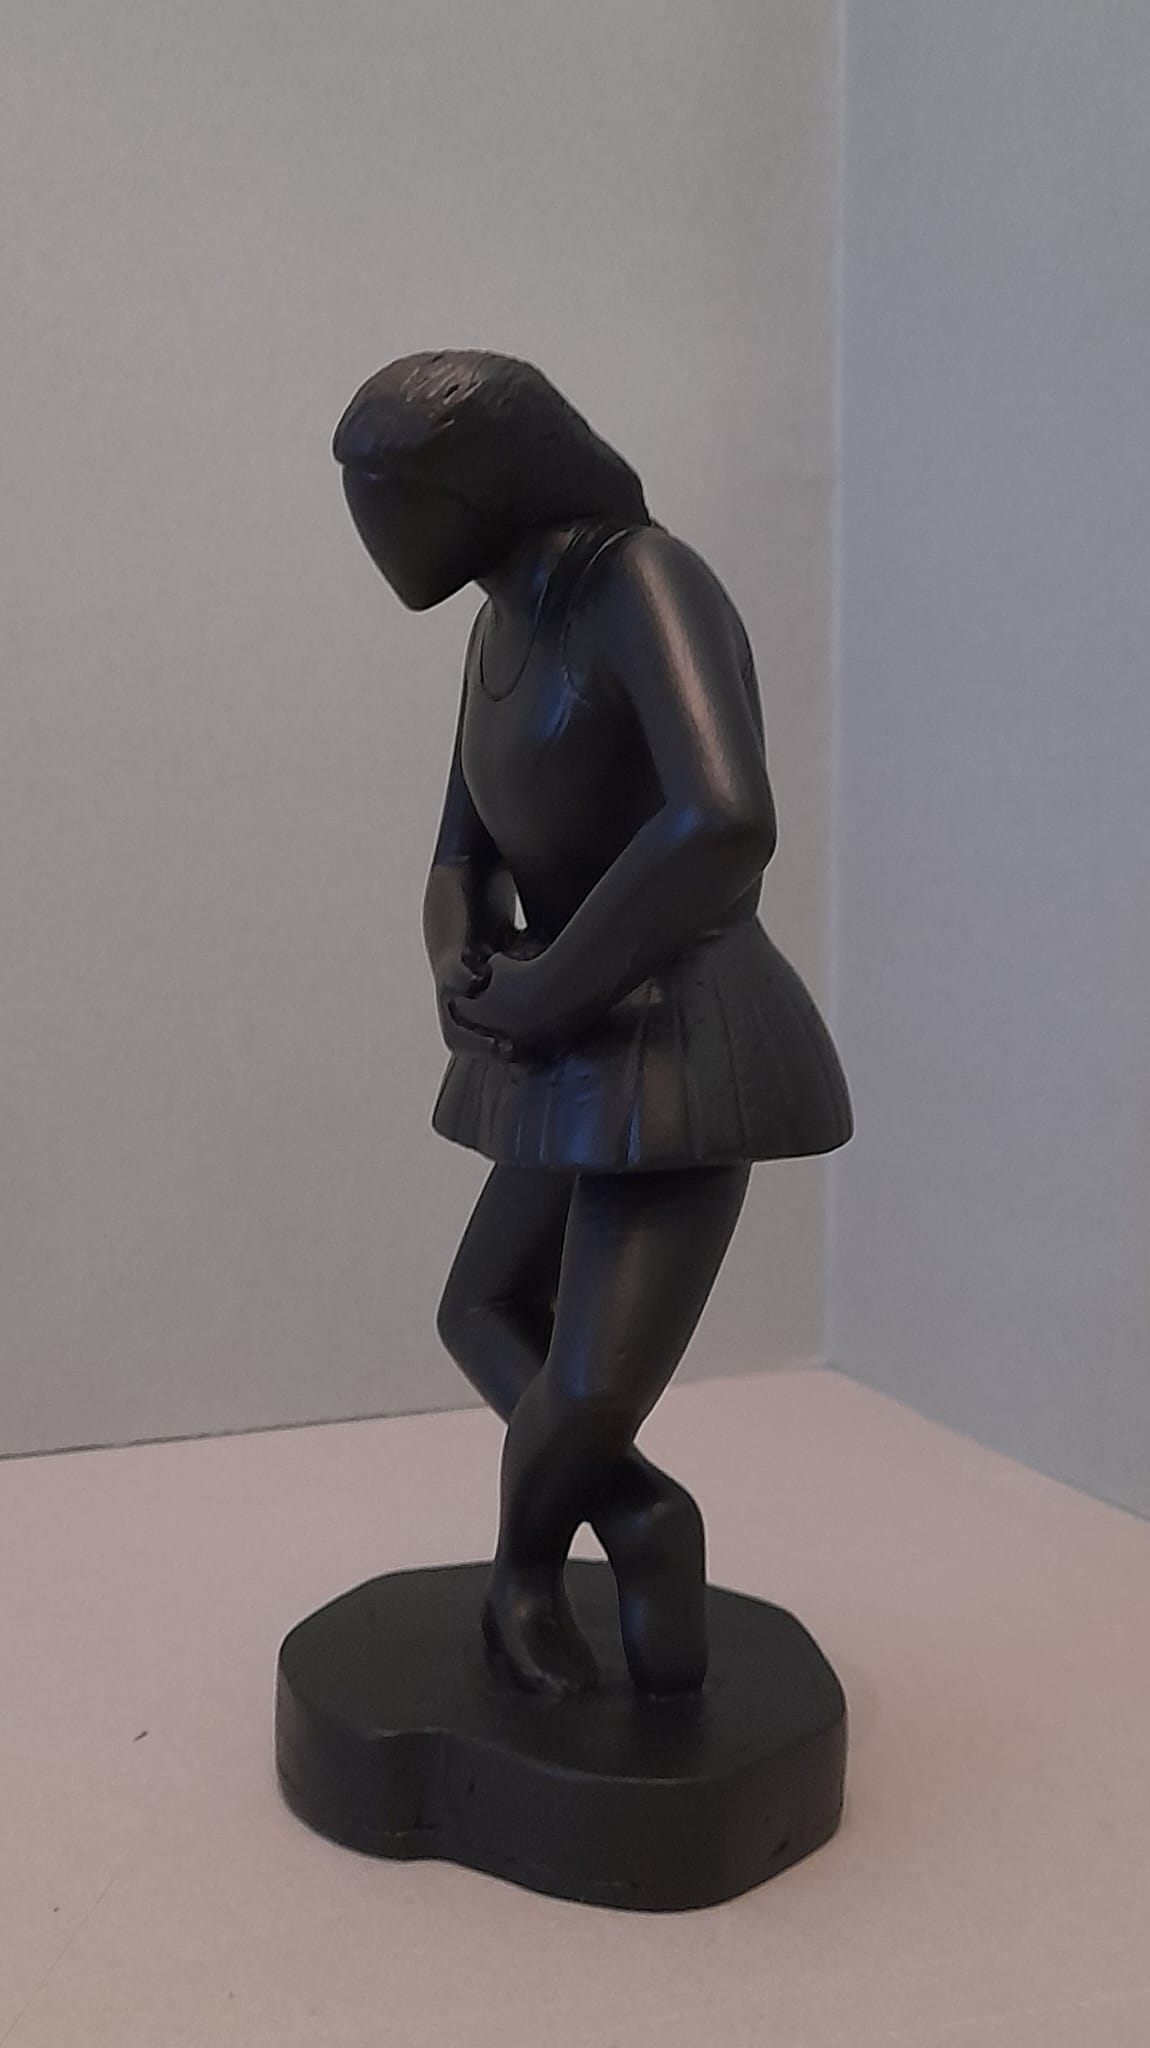
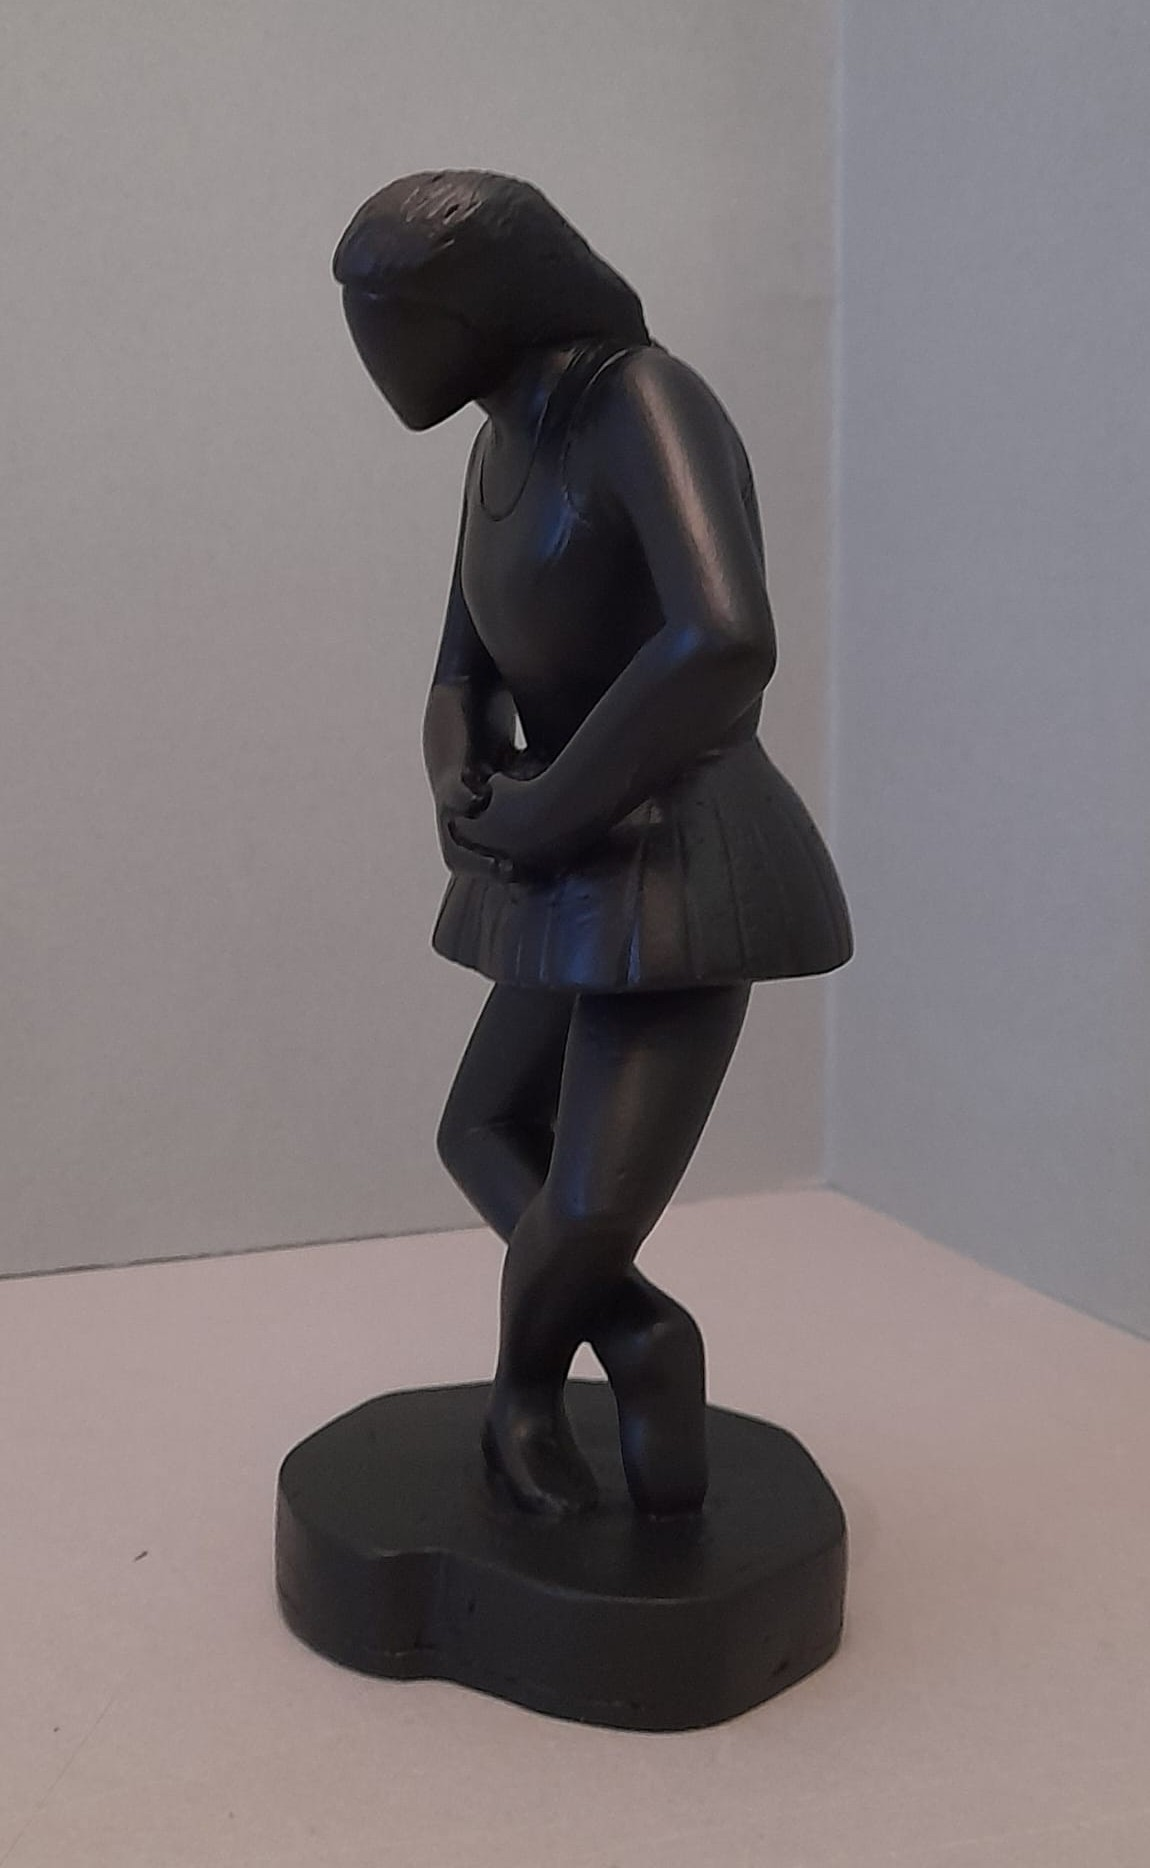
sistemato le oper nell'index

Changed region(s): [[0.0, 0.0931, 1.0, 0.8383], [0.2435, 0.8694, 0.7, 0.9625], [0.7, 0.8694, 0.7304, 0.9004]]

diff --git a/index.html b/index.html
@@ -215,14 +215,14 @@
 
         <!-- Card: Scultura -->
         <a href="sculptures.html" class="card-hover block group rounded-lg overflow-hidden shadow-lg bg-white">
-          <div class="aspect-square overflow-hidden">
-            <img src="static/sculture/scultura_1.jpeg" alt="Ballerina in attesa della musica - Stefano Bianchi Dall'Era"
-                 class="w-full h-full object-cover group-hover:scale-105 transition-transform duration-500" />
+          <div class="aspect-square overflow-hidden bg-white flex items-center justify-center p-4">
+            <img src="static/sculture/pudore 1 2015.jpeg" alt="Pudore - Stefano Bianchi Dall'Era"
+                 class="w-full h-full object-contain group-hover:scale-105 transition-transform duration-500" />
           </div>
           <div class="p-5">
-            <span class="text-teal text-xs font-medium tracking-widest uppercase">Legno laccato</span>
-            <h3 class="font-serif text-lg text-jet mt-1 mb-2">Ballerina in attesa della musica</h3>
-            <p class="text-jet/60 text-sm leading-relaxed">Legno laccato — il corpo femminile come studio di linee e volumi.</p>
+            <span class="text-teal text-xs font-medium tracking-widest uppercase">Legno incerato</span>
+            <h3 class="font-serif text-lg text-jet mt-1 mb-2">Pudore</h3>
+            <p class="text-jet/60 text-sm leading-relaxed">Legno incerato, 2015.</p>
             <p class="text-teal text-sm font-medium mt-3 group-hover:underline">Vedi la serie →</p>
           </div>
         </a>
